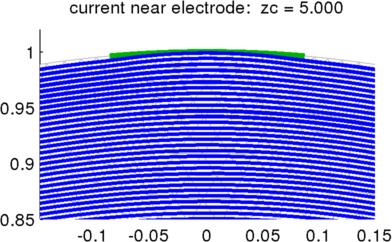
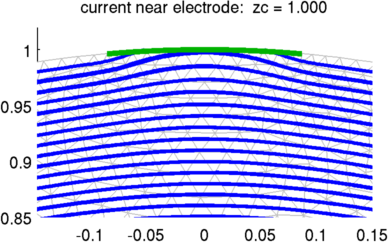
New symmetric images
git-svn-id: svn://svn.code.sf.net/p/eidors3d/code/trunk@4319 82006732-fb7e-4a22-9f28-86a212cce563

diff --git a/htdocs/tutorial/EIDORS_basics/contact_impedance04.m b/htdocs/tutorial/EIDORS_basics/contact_impedance04.m
@@ -8,10 +8,11 @@ for i=1:3
    hh=show_fem(imgc);
    set(hh,'EdgeColor',[1,1,1]*.75);
    hold on;
-    sy = 1 - (25:5:300)/1000; sx= 0*sy - 0.20;
+
+   sy = linspace(.98,.8 ,20); sx= 0*sy - 0.15;
    hh=streamline(q.xp,q.yp, q.xc, q.yc, sx,sy); set(hh,'Linewidth',2);
-    sy = 1 - (25:5:80)/1000; sx= 0*sy - 0.20;
    hh=streamline(q.xp,q.yp,-q.xc,-q.yc,-sx,sy); set(hh,'Linewidth',2);
+
    title(sprintf('streamlines zc = %5.3f',fmdl.electrode(1).z_contact));
    hold off;
    axis([-.15,.15,0.85,1.02]);
